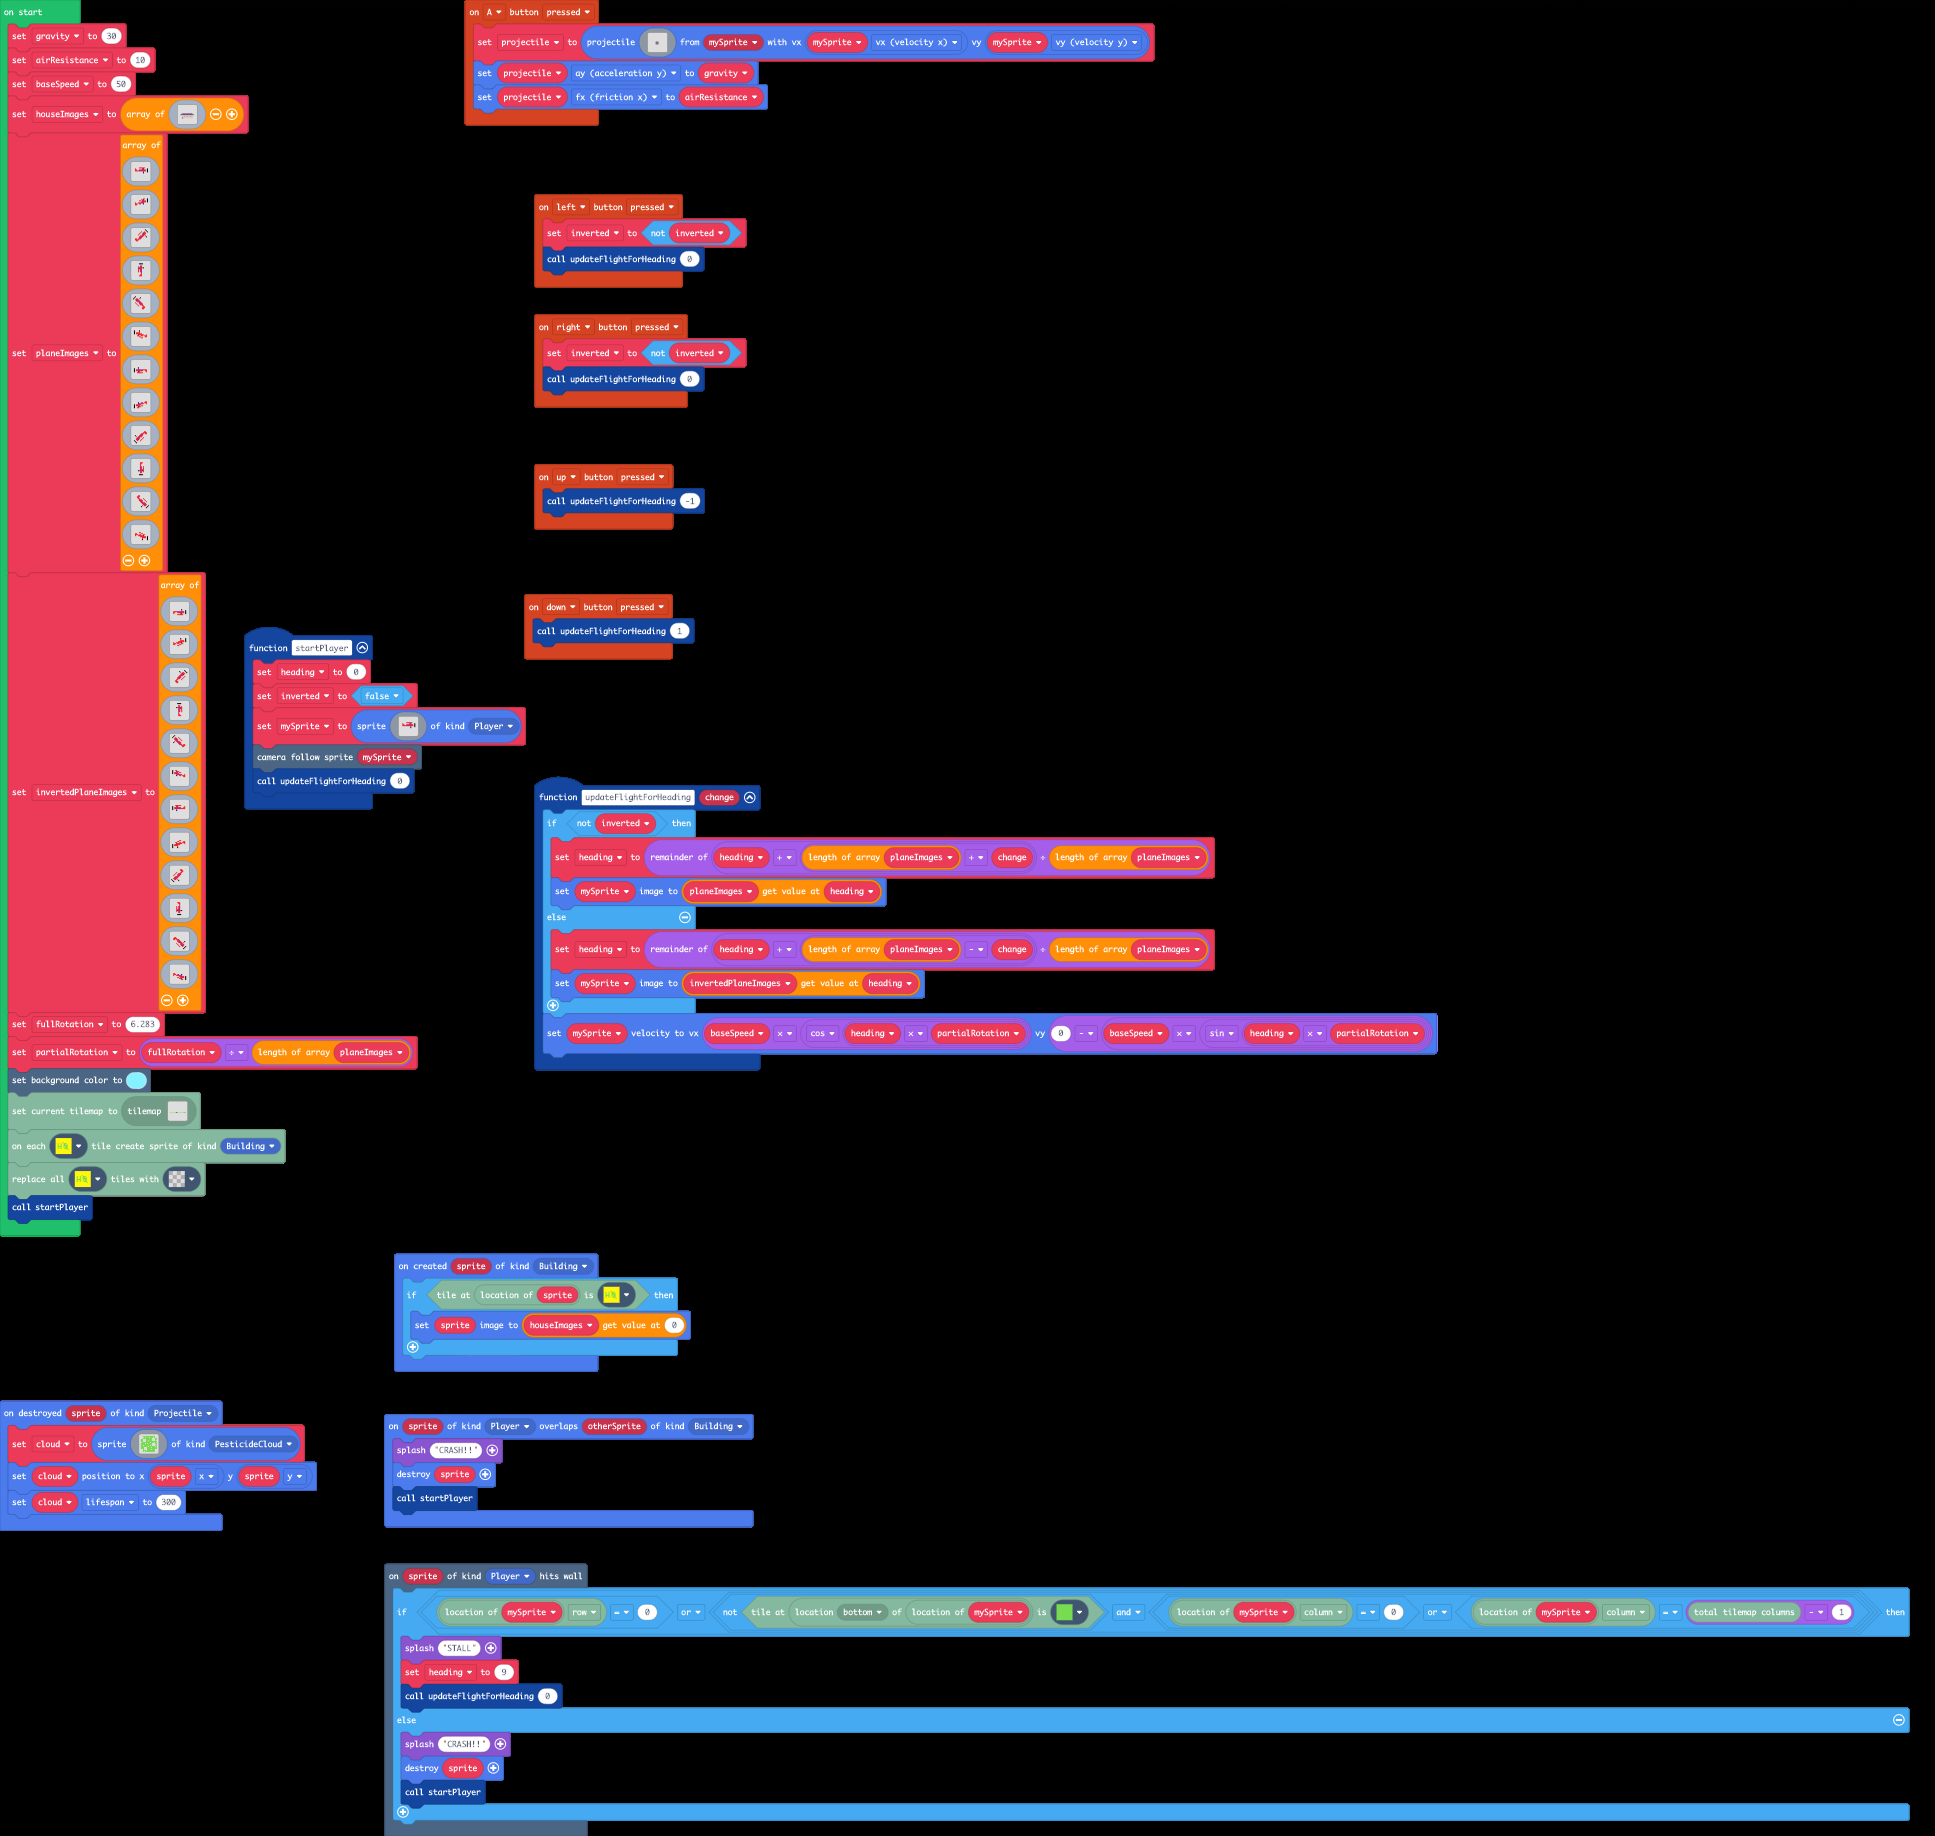
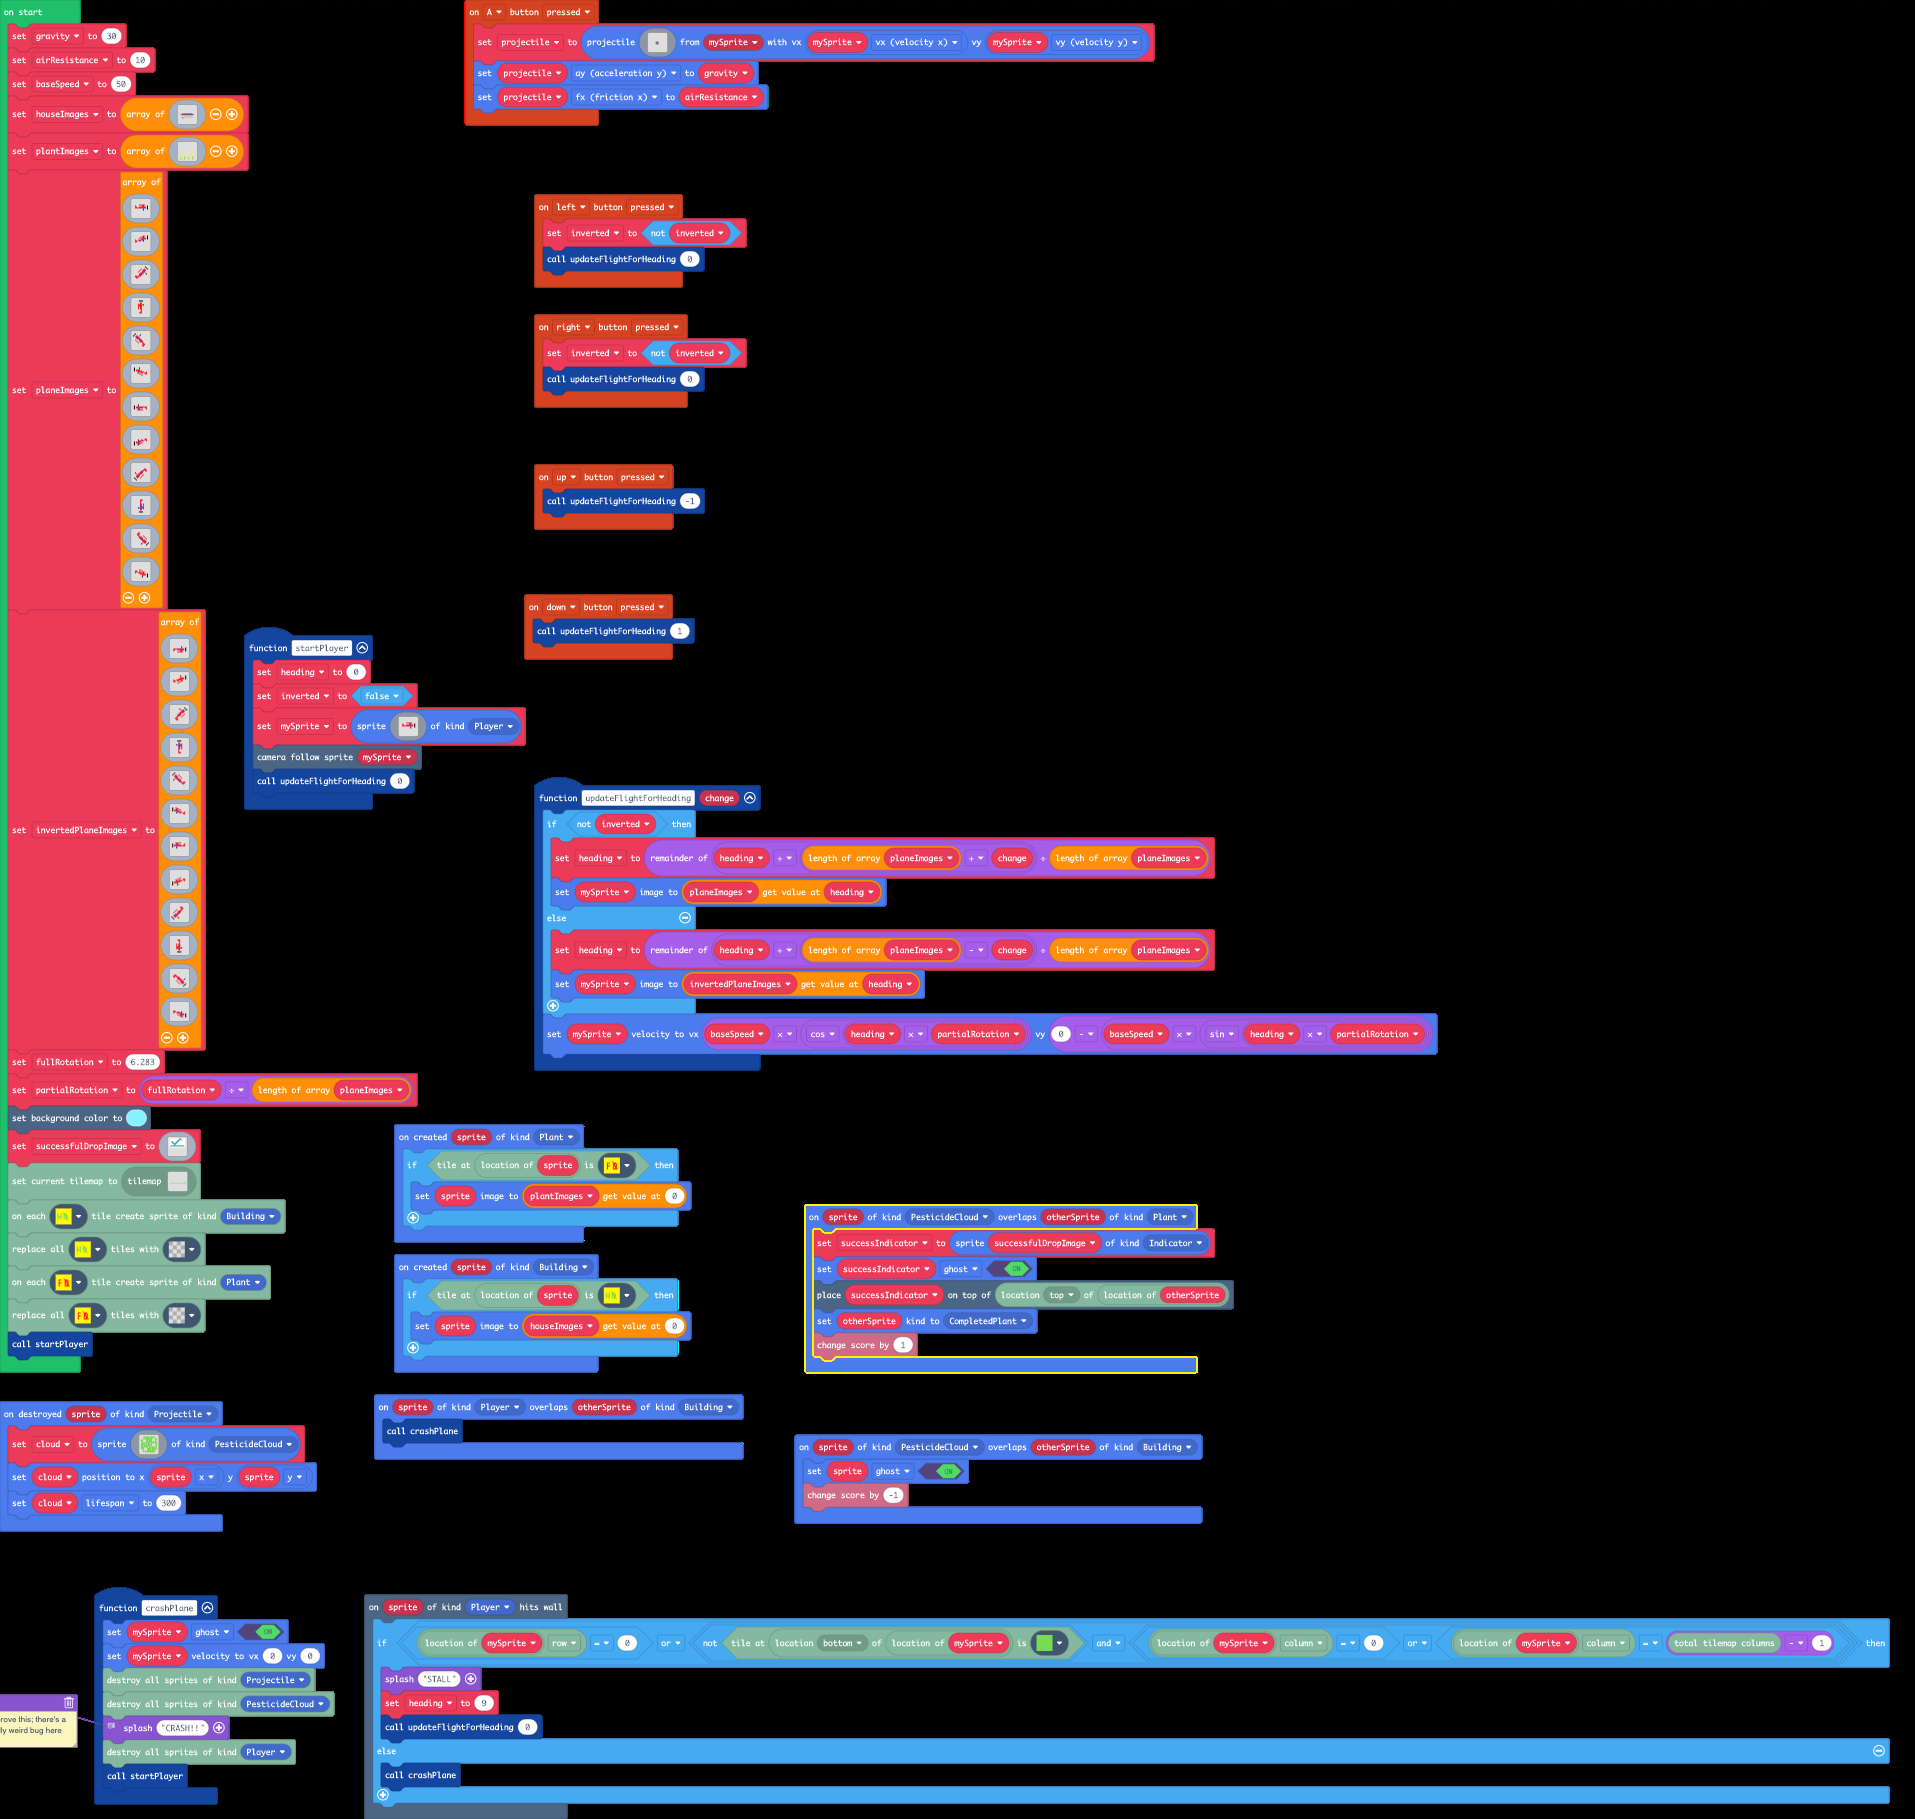
change flowers; add initial success indicator

Changed region(s): [[0.0, 0.0, 0.9859, 1.0], [0.2157, 0.0, 0.6162, 0.0616]]

diff --git a/main.ts b/main.ts
@@ -1,6 +1,9 @@
 namespace SpriteKind {
     export const PesticideCloud = SpriteKind.create()
     export const Building = SpriteKind.create()
+    export const Plant = SpriteKind.create()
+    export const Indicator = SpriteKind.create()
+    export const CompletedPlant = SpriteKind.create()
 }
 namespace myTiles {
     //% blockIdentity=images._tile
@@ -61,25 +64,6 @@ e e e e e e e e e e e e e e e e
 7 7 7 7 7 7 7 7 7 7 7 7 7 7 7 7 
 `
     //% blockIdentity=images._tile
-    export const tile7 = img`
-. . . . . . . . . . . . . . . . 
-. . . . . . . . . . . . . . . . 
-. . . . . . . . . . . . . . . . 
-. . . . . . . . . . . . . . . . 
-. . . . . . . . . . . . . . . . 
-. . . . . . . . . . . . . . . . 
-. . . . . . . . . . . . . . . . 
-. . . . . . . . . . . . . . . . 
-. . . . . . . . . . . . . . . . 
-. . . . . . . . . . . . . . . . 
-. . . . . . . . . . . . . . . . 
-. . . . . . . . . . . . . . . . 
-. . 5 . . . 5 . . . 5 . . . 5 . 
-. 5 e 5 . 5 e 5 . 5 e 5 . 5 e 5 
-. . 5 . . . 5 . . . 5 . . . 5 . 
-. . 7 . . . 7 . . . 7 . . . 7 . 
-`
-    //% blockIdentity=images._tile
     export const tile8 = img`
 5 5 5 5 5 5 5 5 5 5 5 5 5 5 5 5 
 5 5 5 5 5 5 5 5 5 5 5 5 5 5 5 5 
@@ -98,15 +82,42 @@ e e e e e e e e e e e e e e e e
 5 5 5 5 5 5 5 5 5 5 5 5 5 5 5 5 
 5 5 5 5 5 5 5 5 5 5 5 5 5 5 5 5 
 `
+    //% blockIdentity=images._tile
+    export const tile9 = img`
+5 5 5 5 5 5 5 5 5 5 5 5 5 5 5 5 
+5 5 5 5 5 5 5 5 5 5 5 5 5 5 5 5 
+5 5 5 5 5 5 5 5 5 5 5 5 5 5 5 5 
+5 5 5 5 5 5 5 5 5 5 5 5 5 5 5 5 
+5 5 5 5 5 5 5 5 2 5 5 5 5 5 5 5 
+5 5 5 2 2 2 5 5 5 2 2 2 5 5 5 5 
+5 5 5 2 5 5 5 5 5 2 2 2 2 5 5 5 
+5 5 5 2 5 5 5 5 5 2 2 5 2 5 5 5 
+5 5 5 2 2 2 5 5 5 2 2 2 2 5 5 5 
+5 5 5 2 5 5 5 5 5 2 5 2 2 5 5 5 
+5 5 5 2 5 5 5 5 5 2 5 2 2 5 5 5 
+5 5 5 2 5 5 5 5 5 2 2 2 2 2 5 5 
+5 5 5 5 5 5 5 5 5 5 5 5 5 5 5 5 
+5 5 5 5 5 5 5 5 5 5 5 5 5 5 5 5 
+5 5 5 5 5 5 5 5 5 5 5 5 5 5 5 5 
+5 5 5 5 5 5 5 5 5 5 5 5 5 5 5 5 
+`
 }
 controller.up.onEvent(ControllerButtonEvent.Pressed, function () {
     updateFlightForHeading(-1)
 })
 sprites.onOverlap(SpriteKind.Player, SpriteKind.Building, function (sprite, otherSprite) {
-    game.splash("CRASH!!")
-    sprite.destroy()
-    startPlayer()
+    crashPlane()
 })
+function crashPlane () {
+    mySprite.setFlag(SpriteFlag.Ghost, true)
+    mySprite.setVelocity(0, 0)
+    tilemap.destorySpritesOfKind(SpriteKind.Projectile)
+    tilemap.destorySpritesOfKind(SpriteKind.PesticideCloud)
+    // Improve this; there's a really weird bug here
+    game.splash("CRASH!!")
+    tilemap.destorySpritesOfKind(SpriteKind.Player)
+    startPlayer()
+}
 controller.A.onEvent(ControllerButtonEvent.Pressed, function () {
     projectile = sprites.createProjectileFromSprite(img`
 . . . . . . . . . . . . . . . . 
@@ -157,6 +168,10 @@ controller.left.onEvent(ControllerButtonEvent.Pressed, function () {
     inverted = !(inverted)
     updateFlightForHeading(0)
 })
+sprites.onOverlap(SpriteKind.PesticideCloud, SpriteKind.Building, function (sprite, otherSprite) {
+    sprite.setFlag(SpriteFlag.Ghost, true)
+    info.changeScoreBy(-1)
+})
 function updateFlightForHeading (change: number) {
     if (!(inverted)) {
         heading = (heading + (planeImages.length + change)) % planeImages.length
@@ -177,9 +192,7 @@ scene.onHitWall(SpriteKind.Player, function (sprite) {
         heading = 9
         updateFlightForHeading(0)
     } else {
-        game.splash("CRASH!!")
-        sprite.destroy()
-        startPlayer()
+        crashPlane()
     }
 })
 controller.down.onEvent(ControllerButtonEvent.Pressed, function () {
@@ -189,6 +202,13 @@ sprites.onCreated(SpriteKind.Building, function (sprite) {
     if (tilemap.tileIs(tilemap.locationOfSprite(sprite), myTiles.tile8)) {
         sprite.setImage(houseImages[0])
     }
+})
+sprites.onOverlap(SpriteKind.PesticideCloud, SpriteKind.Plant, function (sprite, otherSprite) {
+    successIndicator = sprites.create(successfulDropImage, SpriteKind.Indicator)
+    successIndicator.setFlag(SpriteFlag.Ghost, true)
+    tiles.placeOnTile(successIndicator, tilemap.locationInDirection(tilemap.locationOfSprite(otherSprite), CollisionDirection.Top))
+    otherSprite.setKind(SpriteKind.CompletedPlant)
+    info.changeScoreBy(1)
 })
 sprites.onDestroyed(SpriteKind.Projectile, function (sprite) {
     cloud = sprites.create(img`
@@ -212,14 +232,22 @@ sprites.onDestroyed(SpriteKind.Projectile, function (sprite) {
     cloud.setPosition(sprite.x, sprite.y)
     cloud.lifespan = 300
 })
+sprites.onCreated(SpriteKind.Plant, function (sprite) {
+    if (tilemap.tileIs(tilemap.locationOfSprite(sprite), myTiles.tile9)) {
+        sprite.setImage(plantImages[0])
+    }
+})
 let cloud: Sprite = null
+let successIndicator: Sprite = null
 let inverted = false
 let heading = 0
-let mySprite: Sprite = null
 let projectile: Sprite = null
+let mySprite: Sprite = null
+let successfulDropImage: Image = null
 let partialRotation = 0
 let invertedPlaneImages: Image[] = []
 let planeImages: Image[] = []
+let plantImages: Image[] = []
 let houseImages: Image[] = []
 let baseSpeed = 0
 let airResistance = 0
@@ -244,6 +272,24 @@ houseImages = [img`
 . . . . d d d d d d d d d d d d d d d d d d d d d d d d . . . . 
 . . . . d d c c d d d d d d d d d d d d d d d d d d d d . . . . 
 . . . . d d c c d d d d d d d d d d d d d d d d d d d d . . . . 
+`]
+plantImages = [img`
+. . . . . . . . . . . . . . . . 
+. . . . . . . . . . . . . . . . 
+. . . . . . . . . . . . . . . . 
+. . . . . . . . . . . . . . . . 
+. . . . . . . . . . . . . . . . 
+. . . . . . . . . . . . . . . . 
+. . . . . . . . . . . . . . . . 
+. . . . . . . . . . . . . . . . 
+. . . . . . . . . . . . . . . . 
+. . . . . . . . . . . . . . . . 
+. . . . . 5 . . . . . . . 5 . . 
+. 5 . . 5 . 5 . . 5 . . 5 . 5 . 
+5 . 5 . . 5 . . 5 . 5 . . 5 . . 
+. 5 . . . 7 . . . 5 . . . 7 . . 
+. 7 . . . 7 . . . 7 . . . 7 . . 
+. 7 . . . 7 . . . 7 . . . 7 . . 
 `]
 planeImages = [img`
 . . . . . . . . . . . . . . . . 
@@ -658,8 +704,26 @@ f . . 2 2 . 2 . . . . . . . . .
 let fullRotation = 6.283
 partialRotation = fullRotation / planeImages.length
 scene.setBackgroundColor(9)
+successfulDropImage = img`
+1 1 1 1 1 1 1 1 1 1 6 6 1 1 1 1 
+1 1 1 1 1 1 1 1 1 6 6 1 6 1 1 1 
+1 1 1 1 1 1 1 1 6 6 1 1 1 1 1 1 
+1 1 6 6 1 1 1 6 6 1 1 1 1 1 1 1 
+1 1 1 6 6 1 6 6 1 1 1 1 1 1 1 1 
+1 1 1 1 6 6 6 1 1 1 1 1 1 1 1 1 
+1 1 1 1 1 6 1 1 1 1 1 1 1 1 1 1 
+1 6 6 6 6 6 6 6 6 6 6 6 6 6 6 1 
+1 1 1 1 1 1 1 1 1 1 1 1 1 1 1 1 
+. . . . . . . . . . . . . . . . 
+. . . . . . . . . . . . . . . . 
+. . . . . . . . . . . . . . . . 
+. . . . . . . . . . . . . . . . 
+. . . . . . . . . . . . . . . . 
+. . . . . . . . . . . . . . . . 
+. . . . . . . . . . . . . . . . 
+`
 tilemap.loadMap(tilemap.createMap(tiles.createTilemap(
-            hex`2000080000000000000000000000000000000000000000000000000000000000000000000000000000000000000000000000000000000000000000000000000000000000000000000000000000000000000000000000000000000000000000000000000000000000000000000000000000000000000000000000000000000000000000000000000000000000000000000000000000000000000000000000000000000000000000000000000000000000000000000000000000000000000000000000000100000000000000000000000400030300000000000000000000000000010101010101010101010101010101010102020101010101010101010101010101010101`,
+            hex`2000080000000000000000000000000000000000000000000000000000000000000000000000000000000000000000000000000000000000000000000000000000000000000000000000000000000000000000000000000000000000000000000000000000000000000000000000000000000000000000000000000000000000000000000000000000000000000000000000000000000000000000000000000000000000000000000000000000000000000000000000000000000000000000000000000100000000000000000000000300040400000000000000000000000000010101010101010101010101010101010102020101010101010101010101010101010101`,
             img`
 . . . . . . . . . . . . . . . . . . . . . . . . . . . . . . . . 
 . . . . . . . . . . . . . . . . . . . . . . . . . . . . . . . . 
@@ -670,9 +734,11 @@ tilemap.loadMap(tilemap.createMap(tiles.createTilemap(
 . . . . . . . . . . . . . . . . . . . . . . . . . . . . 2 2 2 2 
 2 2 2 2 2 2 2 2 2 2 2 2 2 2 2 2 2 2 2 2 2 2 2 2 2 2 2 2 2 2 2 2 
 `,
-            [myTiles.tile0,myTiles.tile1,myTiles.tile5,myTiles.tile7,myTiles.tile8],
+            [myTiles.tile0,myTiles.tile1,myTiles.tile5,myTiles.tile8,myTiles.tile9],
             TileScale.Sixteen
         )))
 tilemap.createSpritesOnTiles(myTiles.tile8, SpriteKind.Building)
 tilemap.replaceAllTiles(myTiles.tile8, myTiles.tile0)
+tilemap.createSpritesOnTiles(myTiles.tile9, SpriteKind.Plant)
+tilemap.replaceAllTiles(myTiles.tile9, myTiles.tile0)
 startPlayer()
